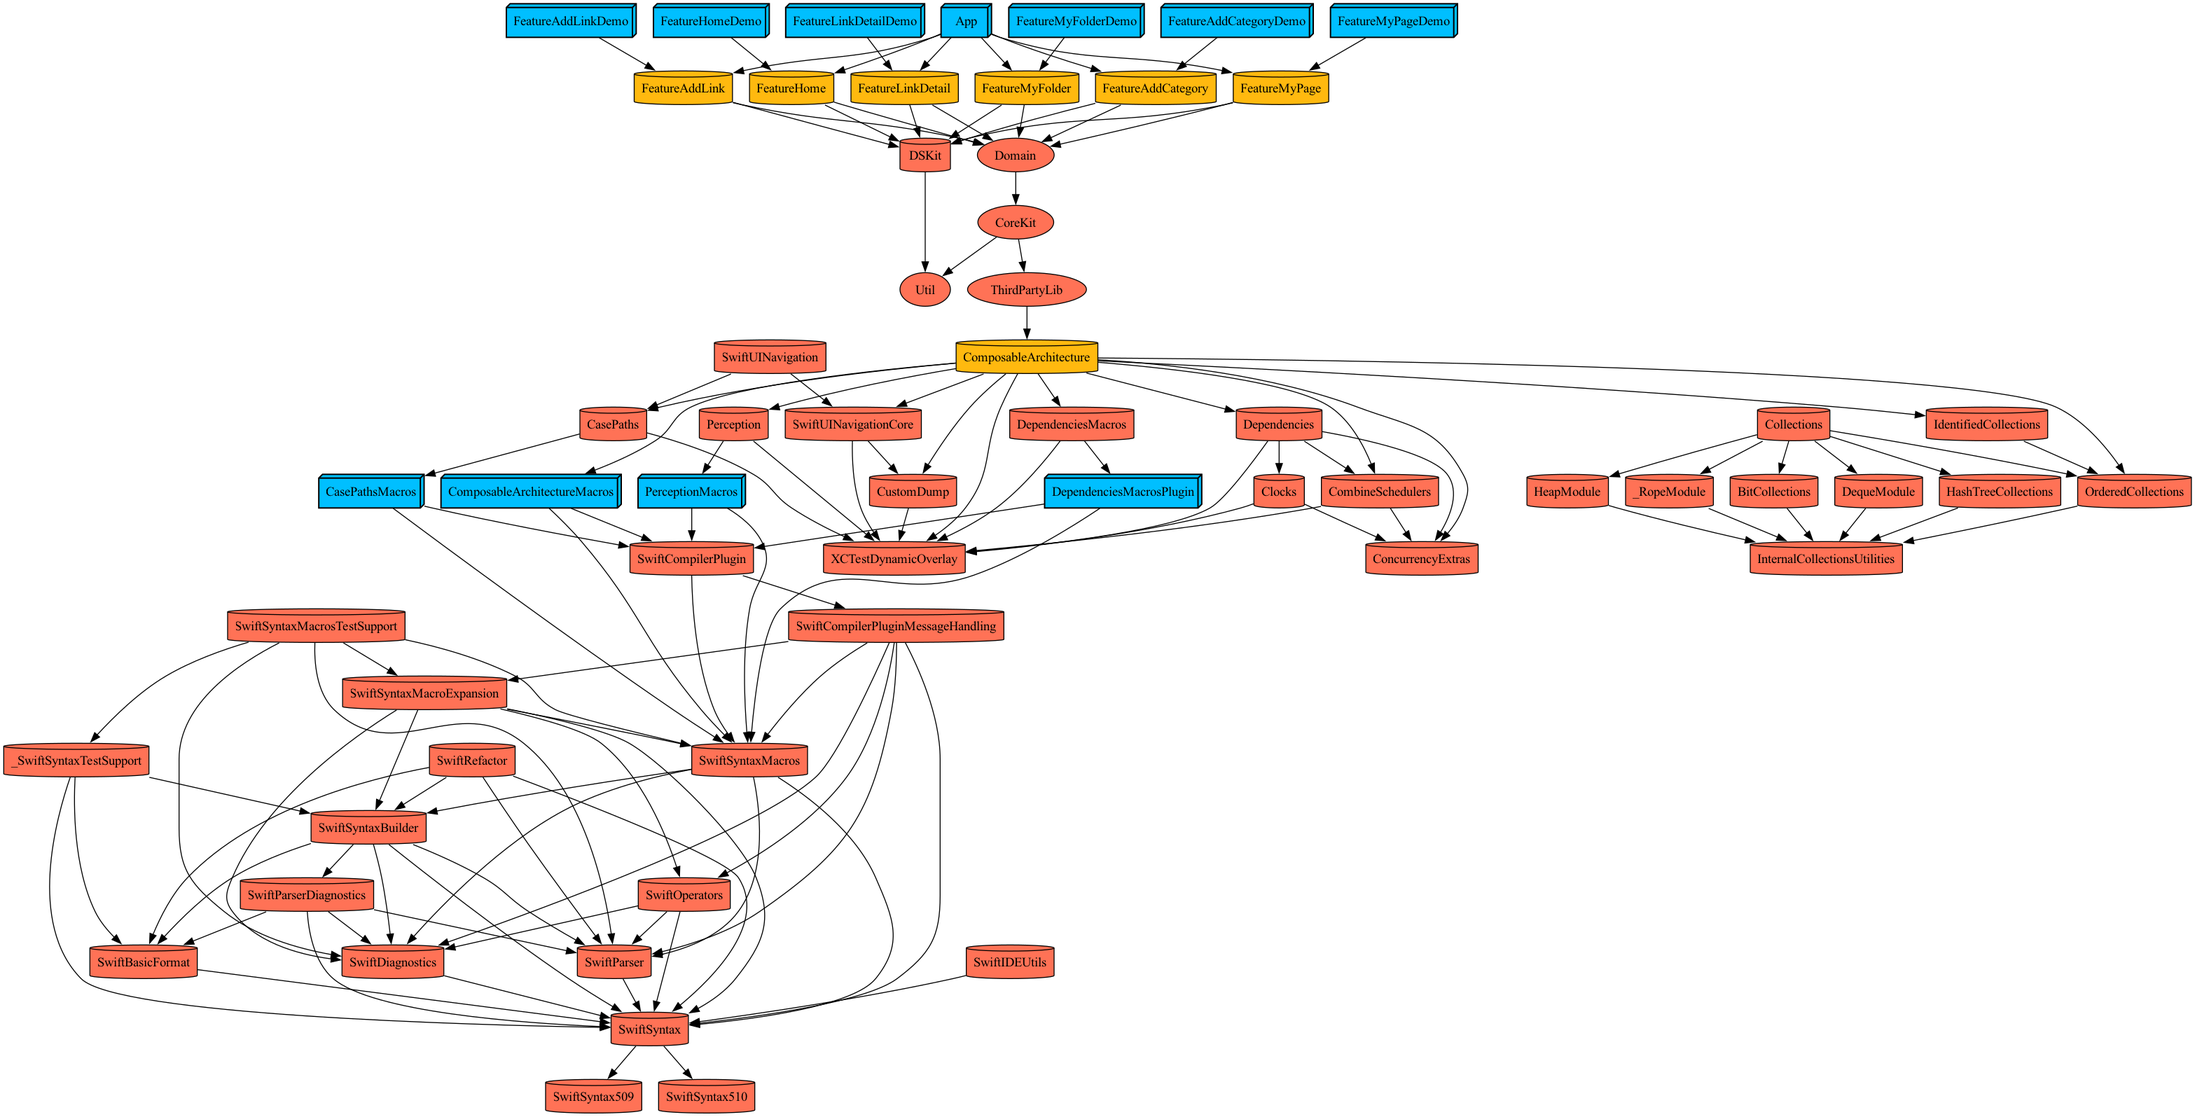
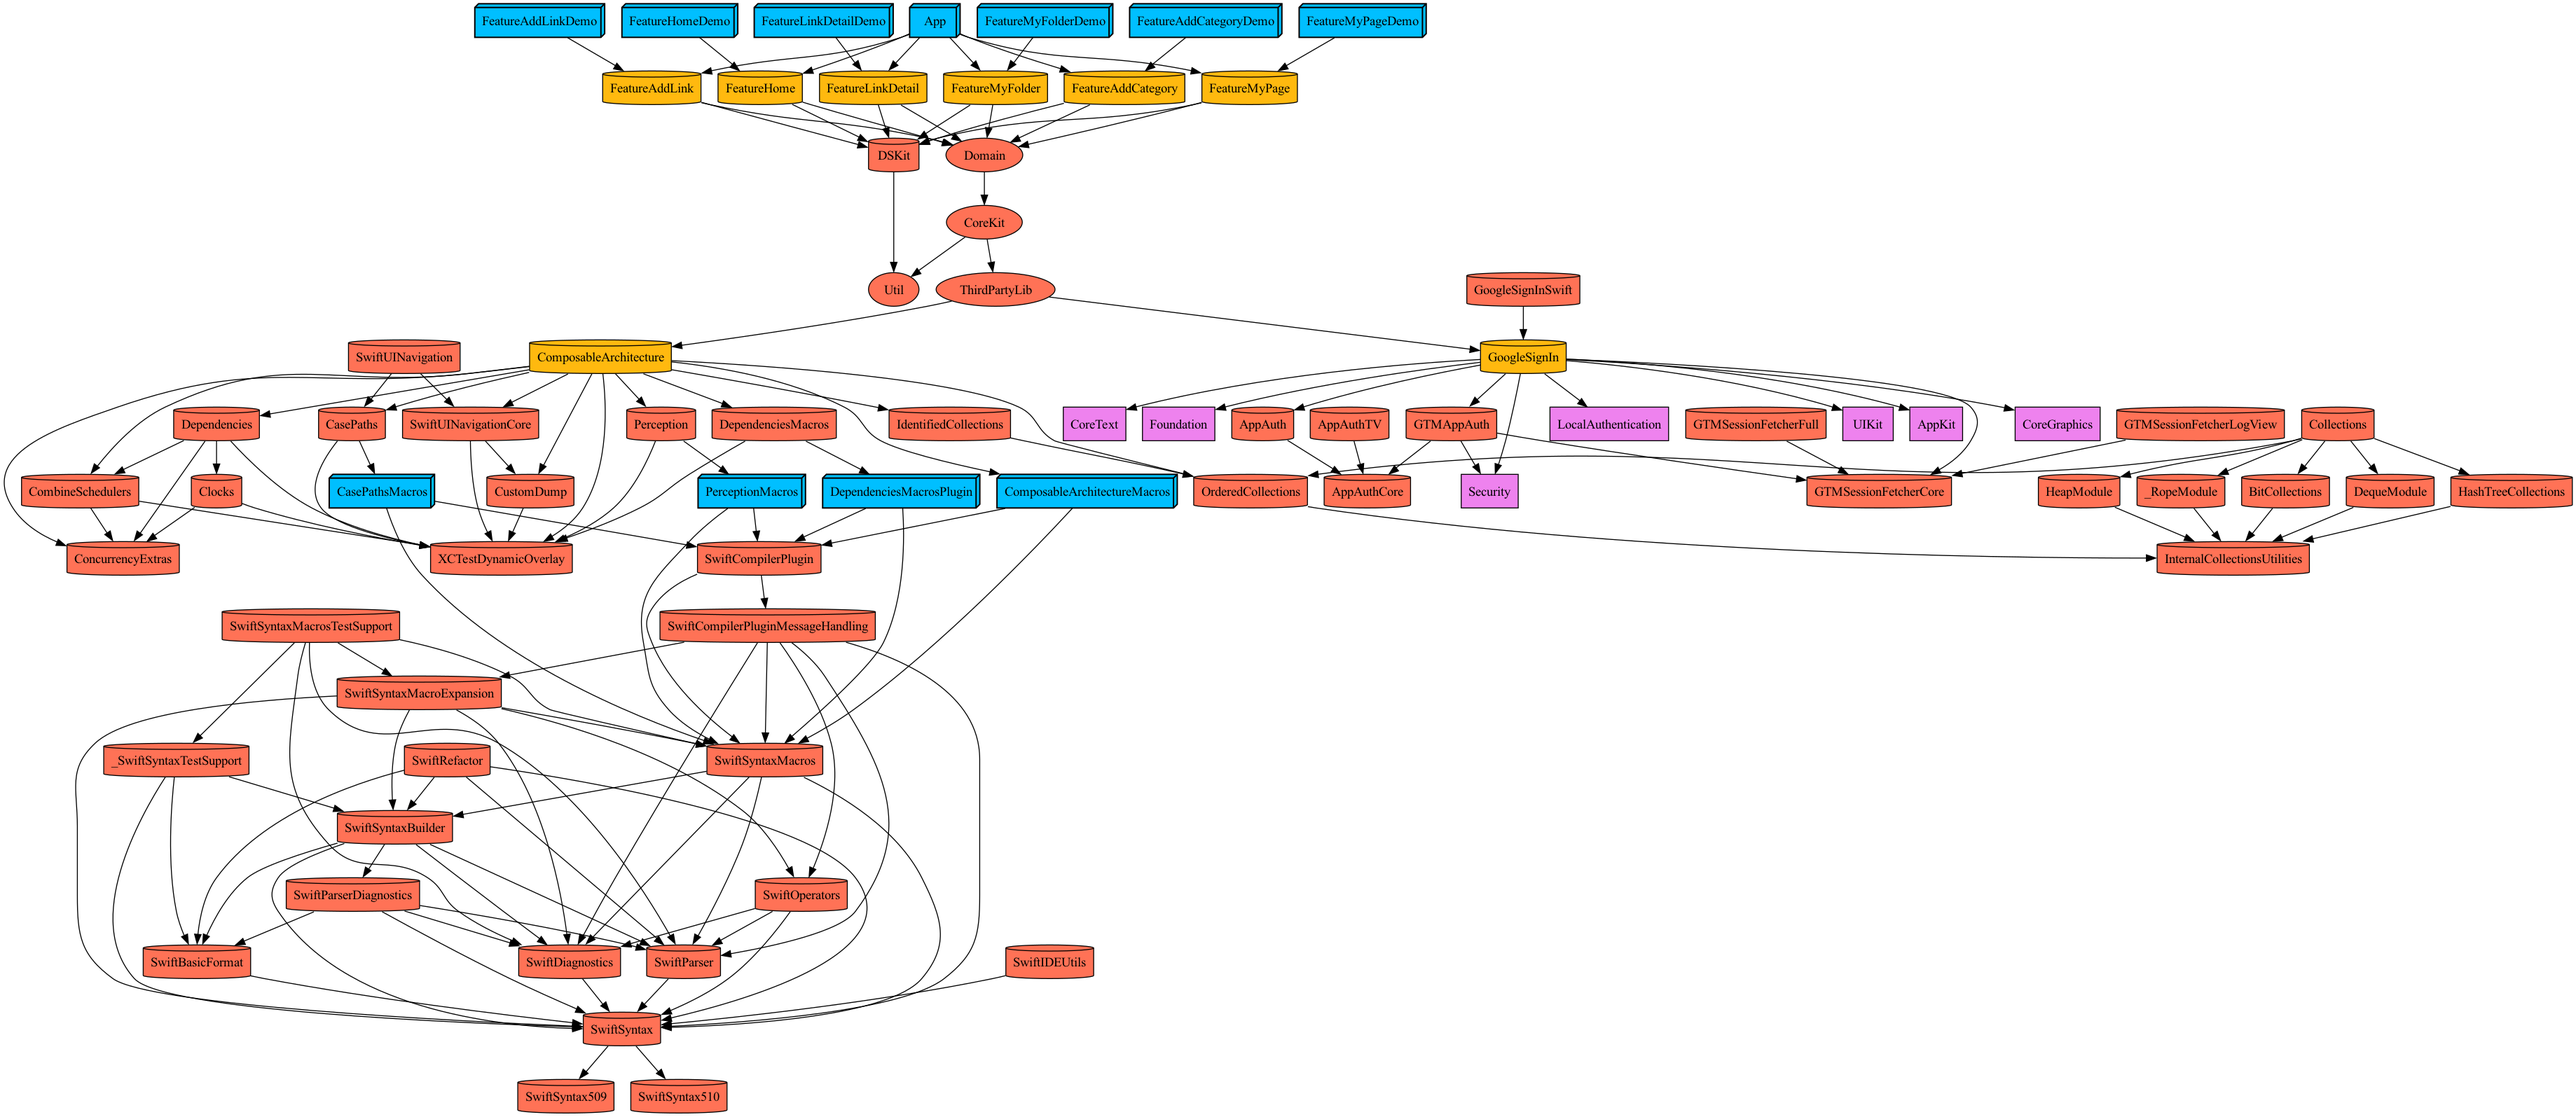
[Feat] #7 GoogleSignIn SDK 추가

diff --git a/Tuist/Package.swift b/Tuist/Package.swift
@@ -8,7 +8,10 @@ import PackageDescription
         // Customize the product types for specific package product
         // Default is .staticFramework
         // productTypes: ["Alamofire": .framework,] 
-        productTypes: ["ComposableArchitecture": .framework]
+        productTypes: [
+            "ComposableArchitecture": .framework,
+            "GoogleSignIn": .framework
+        ]
     )
 #endif
 
@@ -18,6 +21,7 @@ let package = Package(
         // Add your own dependencies here:
         // .package(url: "https://github.com/Alamofire/Alamofire", from: "5.0.0"),
         // You can read more about dependencies here: https://docs.tuist.io/documentation/tuist/dependencies
-        .package(url: "https://github.com/pointfreeco/swift-composable-architecture", from: "1.10.4")
+        .package(url: "https://github.com/pointfreeco/swift-composable-architecture", from: "1.10.4"),
+        .package(url: "https://github.com/google/GoogleSignIn-iOS", "7.0.0" ..< "7.1.0"),
     ]
 )

diff --git a/Projects/ThirdPartyLib/Project.swift b/Projects/ThirdPartyLib/Project.swift
@@ -22,7 +22,8 @@ let project = Project(
             sources: ["Sources/**"],
             dependencies: [
                 // TODO: 의존성 추가
-                .external(name: "ComposableArchitecture")
+                .external(name: "ComposableArchitecture"),
+                .external(name: "GoogleSignIn")
             ]
         )
     ]
